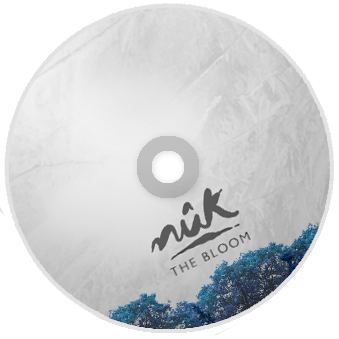
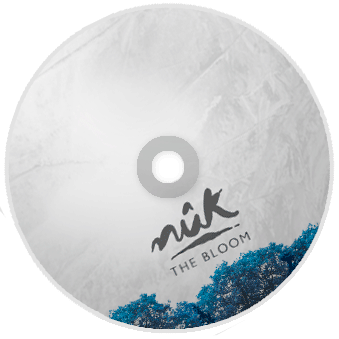
Change pictures to JPG

Changed region(s): [[0.3245, 0.649, 0.944, 0.9735]]

diff --git a/index.html b/index.html
@@ -21,7 +21,7 @@
 		<div class="row">
 			<div class="col-sm-12">
 				<div class="breadcrumb-fullscreen-parent phone-menu-bg">
-					<div class="breadcrumb breadcrumb-fullscreen alignleft small-description overlay almost-black-overlay" style="background-image: url('assets/img/header/header.png');" data-stellar-background-ratio="0.5" data-stellar-vertical-offset="0">
+					<div class="breadcrumb breadcrumb-fullscreen alignleft small-description overlay almost-black-overlay" style="background-image: url('assets/img/header/header.jpg');" data-stellar-background-ratio="0.5" data-stellar-vertical-offset="0">
 						<div id="home" style="position: absolute;left: 0;top: 0;">
 							<div class="intro-header">
 								<div class="js-height-full star" style="height: 955px;">
@@ -231,7 +231,7 @@
 					<li class="col-md-6 col-sm-6 col-xs-12">
 						<div class="album-icon">
 							<span class="thumbs-album">
-								<a href="albumsFullBackground.html"><img width="339" height="339" src="assets/img/albums/albumCover1.png" class="attachment-album-thumbnail wp-post-image" alt="album-cover-1"></a>
+								<a href="albumsFullBackground.html"><img width="339" height="339" src="assets/img/albums/AlbumCover1.jpg" class="attachment-album-thumbnail wp-post-image" alt="album-cover-1"></a>
 							</span>
 							<span class="disk">
 								<img width="339" height="339" src="assets/img/albums/disk1.png" alt="album-disk-1">
@@ -246,7 +246,7 @@
 					<li class="col-md-6 col-sm-6 col-xs-12">
 						<div class="album-icon albumIcon1">
 							<span class="thumbs-album">
-								<a href="albumsFullBackground.html"><img width="339" height="339" src="assets/img/albums/albumCover2.png" class="attachment-album-thumbnail wp-post-image" alt="album-cover-2"></a>
+								<a href="albumsFullBackground.html"><img width="339" height="339" src="assets/img/albums/AlbumCover2.jpg" class="attachment-album-thumbnail wp-post-image" alt="album-cover-2"></a>
 							</span>
 							<span class="disk">
 								<img width="339" height="339" src="assets/img/albums/disk2.png" alt="album-disk-2">
@@ -265,7 +265,7 @@
 	<!-- =============== END ALBUM COVER SECTION ================ -->
 
 	<!-- =============== START EVENTS SECTION-1 ================ -->
-	<section style="background-image: url(assets/img/events/tableEventsHome.png);" class="background-properties hide-section paddingHomeEvents">
+	<section style="background-image: url(assets/img/events/tableeventshome.jpg);" class="background-properties hide-section paddingHomeEvents">
 		<div class="tableEvents">
 			<div class="container">
 				<div class="row">
@@ -327,7 +327,7 @@
 	<!-- =============== END EVENTS SECTION-1 ================ -->
 
 	<!-- =============== START TWITTER SECTION ================ -->
-	<section class="padding hide-section background-properties" style="background-image: url(assets/img/twitter/homeTwitter.png);">
+	<section class="padding hide-section background-properties" style="background-image: url(assets/img/twitter/homeTwitter.jpg);">
 		<div class="twitter">
 			<div class="container">
 				<div class="row">
@@ -388,9 +388,9 @@
 										<figcaption>
 											<!-- Single Album Image -->
 											<div class="hovereffect">
-												<img class="img-responsive" src="assets/img/gallery/Horizontal1.png" alt="">
+												<img class="img-responsive" src="assets/img/gallery/Horizontal1.jpg" alt="">
 												<div class="overlay">
-												   <a class="info lightbox" href="assets/img/gallery/Horizontal1.png"></a>
+												   <a class="info lightbox" href="assets/img/gallery/Horizontal1.jpg"></a>
 												</div>
 											</div>
 										</figcaption>
@@ -405,9 +405,9 @@
 										<!-- Single Album Image -->
 										<figcaption>
 											<div class="hovereffect">
-											<img class="img-responsive" src="assets/img/gallery/Vertical1.png" alt="">
+											<img class="img-responsive" src="assets/img/gallery/Vertical1.jpg" alt="">
 											<div class="overlay">
-											   <a class="info lightbox" href="assets/img/gallery/Vertical1.png"></a>
+											   <a class="info lightbox" href="assets/img/gallery/Vertical1.jpg"></a>
 											</div>
 										</div>
 										</figcaption>
@@ -420,9 +420,9 @@
 										<!-- Single Album Image -->
 										<figcaption>
 											<div class="hovereffect">
-											<img class="img-responsive" src="assets/img/gallery/Vertical2.png" alt="">
+											<img class="img-responsive" src="assets/img/gallery/Vertical2.jpg" alt="">
 											<div class="overlay">
-											   <a class="info lightbox" href="assets/img/gallery/Vertical2.png"></a>
+											   <a class="info lightbox" href="assets/img/gallery/Vertical2.jpg"></a>
 											</div>
 										</div>
 										</figcaption>
@@ -435,9 +435,9 @@
 										<!-- Single Album Image -->
 										<figcaption>
 											<div class="hovereffect">
-											<img class="img-responsive" src="assets/img/gallery/Vertical3.png" alt="">
+											<img class="img-responsive" src="assets/img/gallery/Vertical3.jpg" alt="">
 											<div class="overlay">
-											   <a class="info lightbox" href="assets/img/gallery/Vertical3.png"></a>
+											   <a class="info lightbox" href="assets/img/gallery/Vertical3.jpg"></a>
 											</div>
 										</div>
 										</figcaption>
@@ -450,9 +450,9 @@
 										<!-- Single Album Image -->
 										<figcaption>
 											<div class="hovereffect">
-											<img class="img-responsive" src="assets/img/gallery/Vertical4.png" alt="">
+											<img class="img-responsive" src="assets/img/gallery/Vertical4.jpg" alt="">
 											<div class="overlay">
-											   <a class="info lightbox" href="assets/img/gallery/Vertical4.png"></a>
+											   <a class="info lightbox" href="assets/img/gallery/Vertical4.jpg"></a>
 											</div>
 										</div>
 										</figcaption>
@@ -465,9 +465,9 @@
 										<!-- Single Album Image -->
 										<figcaption>
 											<div class="hovereffect">
-											<img class="img-responsive" src="assets/img/gallery/Horizontal2.png" alt="">
+											<img class="img-responsive" src="assets/img/gallery/Horizontal2.jpg" alt="">
 											<div class="overlay">
-											   <a class="info lightbox" href="assets/img/gallery/Horizontal2.png"></a>
+											   <a class="info lightbox" href="assets/img/gallery/Horizontal2.jpg"></a>
 											</div>
 										</div>
 										</figcaption>
@@ -498,7 +498,7 @@
 						    <li class="col-sm-3">
 								<figure>
 									<figcaption>
-										<img src="assets/img/shop/shopProduct1.png" alt="">
+										<img src="assets/img/shop/shopProduct1.jpg" alt="">
 									</figcaption>
 									<div class="content">
 										<div class="shopHover">
@@ -517,7 +517,7 @@
 							<li class="col-sm-3">
 								<figure>
 									<figcaption>
-										<img src="assets/img/shop/shopProduct2.png" alt="">
+										<img src="assets/img/shop/shopProduct2.jpg" alt="">
 									</figcaption>
 									<div class="content">
 										<div class="shopHover">
@@ -536,7 +536,7 @@
 							<li class="col-sm-3">
 								<figure>
 									<figcaption>
-										<img src="assets/img/shop/shopProduct3.png" alt="">
+										<img src="assets/img/shop/shopProduct3.jpg" alt="">
 									</figcaption>
 									<div class="content">
 										<div class="shopHover">
@@ -555,7 +555,7 @@
 							<li class="col-sm-3">
 								<figure>
 									<figcaption>
-										<img src="assets/img/shop/shopProduct4.png" alt="">
+										<img src="assets/img/shop/shopProduct4.jpg" alt="">
 									</figcaption>
 									<div class="content">
 										<div class="shopHover">

diff --git a/galleryGrid.html b/galleryGrid.html
@@ -280,7 +280,7 @@
 			<div class="col-sm-12">
 				<div class="before-FullscreenSlider"></div>
 				<div class="breadcrumb-fullscreen-parent phone-menu-bg">
-					<div class="breadcrumb breadcrumb-fullscreen alignleft small-description overlay almost-black-overlay" style="background-image: url('assets/img/gallery/gallerybackground.png');" data-stellar-background-ratio="0.5" data-stellar-vertical-offset="0">
+					<div class="breadcrumb breadcrumb-fullscreen alignleft small-description overlay almost-black-overlay" style="background-image: url('assets/img/gallery/gallerybackground.jpg');" data-stellar-background-ratio="0.5" data-stellar-vertical-offset="0">
 						<div class="breadTxt">
                             <h1>
                                 Galería
@@ -313,9 +313,9 @@
 										<!-- Single Album Image -->
 										<figcaption>
 											<div class="hovereffect">
-										        <img class="img-responsive" src="assets/img/gallery/square1.png" alt="">
+										        <img class="img-responsive" src="assets/img/gallery/Square1.jpg" alt="">
 										        <div class="overlay">
-										        	<a class="info lightbox" href="assets/img/gallery/square1.png"></a>
+										        	<a class="info lightbox" href="assets/img/gallery/Square1.jpg"></a>
 										        </div>
 										    </div>
 										</figcaption>
@@ -328,9 +328,9 @@
 										<!-- Single Album Image -->
 										<figcaption>
 											<div class="hovereffect">
-										        <img class="img-responsive" src="assets/img/gallery/square2.png" alt="">
+										        <img class="img-responsive" src="assets/img/gallery/Square2.jpg" alt="">
 										        <div class="overlay">
-										        	<a class="info lightbox" href="assets/img/gallery/square2.png"></a>
+										        	<a class="info lightbox" href="assets/img/gallery/Square2.jpg"></a>
 										        </div>
 										    </div>
 										</figcaption>
@@ -343,9 +343,9 @@
 										<!-- Single Album Image -->
 										<figcaption>
 											<div class="hovereffect">
-										        <img class="img-responsive" src="assets/img/gallery/square3.png" alt="">
+										        <img class="img-responsive" src="assets/img/gallery/Square3.jpg" alt="">
 										        <div class="overlay">
-										        	<a class="info lightbox" href="assets/img/gallery/square3.png"></a>
+										        	<a class="info lightbox" href="assets/img/gallery/Square3.jpg"></a>
 										        </div>
 										    </div>
 										</figcaption>
@@ -358,9 +358,9 @@
 										<!-- Single Album Image -->
 										<figcaption>
 											<div class="hovereffect">
-										        <img class="img-responsive" src="assets/img/gallery/square4.png" alt="">
+										        <img class="img-responsive" src="assets/img/gallery/Square4.jpg" alt="">
 										        <div class="overlay">
-										        	<a class="info lightbox" href="assets/img/gallery/square4.png"></a>
+										        	<a class="info lightbox" href="assets/img/gallery/Square4.jpg"></a>
 										        </div>
 										    </div>
 										</figcaption>
@@ -373,9 +373,9 @@
 										<!-- Single Album Image -->
 										<figcaption>
 											<div class="hovereffect">
-										        <img class="img-responsive" src="assets/img/gallery/square5.png" alt="">
+										        <img class="img-responsive" src="assets/img/gallery/Square5.jpg" alt="">
 										        <div class="overlay">
-										        	<a class="info lightbox" href="assets/img/gallery/square5.png"></a>
+										        	<a class="info lightbox" href="assets/img/gallery/Square5.jpg"></a>
 										        </div>
 										    </div>
 										</figcaption>
@@ -388,9 +388,9 @@
 										<!-- Single Album Image -->
 										<figcaption>
 											<div class="hovereffect">
-										        <img class="img-responsive" src="assets/img/gallery/square6.png" alt="">
+										        <img class="img-responsive" src="assets/img/gallery/Square6.jpg" alt="">
 										        <div class="overlay">
-										        	<a class="info lightbox" href="assets/img/gallery/square6.png"></a>
+										        	<a class="info lightbox" href="assets/img/gallery/Square6.jpg"></a>
 										        </div>
 										    </div>
 										</figcaption>

diff --git a/shop.html b/shop.html
@@ -281,7 +281,7 @@
 			<div class="col-sm-12">
 				<div class="before-FullscreenSlider"></div>
 				<div class="breadcrumb-fullscreen-parent phone-menu-bg">
-					<div class="breadcrumb breadcrumb-fullscreen alignleft small-description overlay almost-black-overlay" style="background-image: url('assets/img/shop/shopbackground.png');" data-stellar-background-ratio="0.5" data-stellar-vertical-offset="0">
+					<div class="breadcrumb breadcrumb-fullscreen alignleft small-description overlay almost-black-overlay" style="background-image: url('assets/img/shop/shopbackground.jpg');" data-stellar-background-ratio="0.5" data-stellar-vertical-offset="0">
 						<div class="breadTxt">
                             <h1>
                                 Tienda Online
@@ -311,7 +311,7 @@
                                     <li class="col-sm-4">
 		                                <figure>
 		                                    <figcaption>
-		                                        <img src="assets/img/shop/bigProduct1.png" alt="">
+		                                        <img src="assets/img/shop/bigProduct1.jpg" alt="">
 		                                    </figcaption>
 		                                    <div class="content">
 		                                        <div class="shopHover">
@@ -330,7 +330,7 @@
                                     <li class="col-sm-4">
 		                                <figure>
 		                                    <figcaption>
-		                                        <img src="assets/img/shop/bigProduct2.png" alt="">
+		                                        <img src="assets/img/shop/bigProduct2.jpg" alt="">
 		                                    </figcaption>
 		                                    <div class="content">
 		                                        <div class="shopHover">
@@ -349,7 +349,7 @@
 		                            <li class="col-sm-4">
 		                                <figure>
 		                                    <figcaption>
-		                                        <img src="assets/img/shop/bigProduct3.png" alt="">
+		                                        <img src="assets/img/shop/bigProduct3.jpg" alt="">
 		                                    </figcaption>
 		                                    <div class="content">
 		                                        <div class="shopHover">
@@ -368,7 +368,7 @@
 		                            <li class="col-sm-4">
 		                                <figure>
 		                                    <figcaption>
-		                                        <img src="assets/img/shop/bigProduct4.png" alt="">
+		                                        <img src="assets/img/shop/bigProduct4.jpg" alt="">
 		                                    </figcaption>
 		                                    <div class="content">
 		                                        <div class="shopHover">
@@ -387,7 +387,7 @@
 		                            <li class="col-sm-4">
 		                                <figure>
 		                                    <figcaption>
-		                                        <img src="assets/img/shop/bigProduct5.png" alt="">
+		                                        <img src="assets/img/shop/bigProduct5.jpg" alt="">
 		                                    </figcaption>
 		                                    <div class="content">
 		                                        <div class="shopHover">
@@ -406,7 +406,7 @@
 		                            <li class="col-sm-4">
 		                                <figure>
 		                                    <figcaption>
-		                                        <img src="assets/img/shop/bigProduct6.png" alt="">
+		                                        <img src="assets/img/shop/bigProduct6.jpg" alt="">
 		                                    </figcaption>
 		                                    <div class="content">
 		                                        <div class="shopHover">

diff --git a/nuk.code-workspace.html b/nuk.code-workspace.html
@@ -422,14 +422,14 @@
 				<div class="breadcrumb-fullscreen-parent sliderContainerBreadcrumb">
 					
 					<div id="ava-slider" class="royalSlider  heroSlider rsMinW change-header-items-color">
-						<div class="rsContent" style="background-image: url(assets/img/header/header.png); background-size:cover">
-							<img class="rsImg" src="assets/img/header/header.png" alt="">
+						<div class="rsContent" style="background-image: url(assets/img/header/header.jpg); background-size:cover">
+							<img class="rsImg" src="assets/img/header/header.jpg" alt="">
 						</div>
-						<div class="rsContent" style="background-image: url(assets/img/header/header.png); background-size:cover">
-							<img class="rsImg" src="assets/img/header/header.png" alt="">
+						<div class="rsContent" style="background-image: url(assets/img/header/header.jpg); background-size:cover">
+							<img class="rsImg" src="assets/img/header/header.jpg" alt="">
 						</div>
-						<div class="rsContent" style="background-image: url(assets/img/header/header.png); background-size:cover">
-							<img class="rsImg" src="assets/img/header/header.png" alt="">
+						<div class="rsContent" style="background-image: url(assets/img/header/header.jpg); background-size:cover">
+							<img class="rsImg" src="assets/img/header/header.jpg" alt="">
 						</div>
 					</div>
 				</div>

diff --git a/contact.html b/contact.html
@@ -280,7 +280,7 @@
 			<div class="col-sm-12">
 				<div class="before-FullscreenSlider"></div>
 				<div class="breadcrumb-fullscreen-parent phone-menu-bg">
-					<div class="breadcrumb breadcrumb-fullscreen alignleft small-description overlay almost-black-overlay" style="background-image: url('assets/img/contact/contactbackground.png');" data-stellar-background-ratio="0.5" data-stellar-vertical-offset="0">
+					<div class="breadcrumb breadcrumb-fullscreen alignleft small-description overlay almost-black-overlay" style="background-image: url('assets/img/contact/contactbackground.jpg');" data-stellar-background-ratio="0.5" data-stellar-vertical-offset="0">
 						<div class="breadTxt">
                             <h1>
                                 Contacto
@@ -300,7 +300,7 @@
 	<!-- =============== END BREADCRUMB ================ -->
 
 	<!-- =============== START CONTACT ================ -->
-	<section class="contactSingle padding background-properties" id="content" style="background-image:url(assets/img/events/backgroundevents.png);">
+	<section class="contactSingle padding background-properties" id="content" style="background-image:url(assets/img/events/backgroundevents.jpg);">
 		<div class="container">
 			<div class="row">
 				<div class="col-sm-4">

diff --git a/albumsFullBackground.html b/albumsFullBackground.html
@@ -100,7 +100,7 @@
 	<!-- =============== END TOP HEADER ================ -->
 
 	<!-- =============== START ALBUMS SECTION ================ -->
-	<section class="fullAlbums" style="background-image:url(assets/img/albums/backgrounddisk1.png);">
+	<section class="fullAlbums" style="background-image:url(assets/img/albums/backgrounddisk1.jpg);">
 		<div class="fullAlbumsContent col-sm-5">
 			<h1>The Bloom</h1>
 			<p>Grabado, producido y masterizado en 2018 por Jordi Gil<br>
@@ -112,7 +112,7 @@
 		</div><!-- end fullAlbumsContent -->
 	</section>
 
-	<section class="fullAlbums" style="background-image:url(assets/img/albums/backgrounddisk2.png);">
+	<section class="fullAlbums" style="background-image:url(assets/img/albums/backgrounddisk2.jpg);">
 		<div class="fullAlbumsContent col-sm-5">
 			<h1>The Surface</h1>
 			<p>Grabado y producido en Legalize Sound en 2014 por Mario García y<br>

diff --git a/video.html b/video.html
@@ -281,7 +281,7 @@
 			<div class="col-sm-12">
 				<div class="before-FullscreenSlider"></div>
 				<div class="breadcrumb-fullscreen-parent phone-menu-bg">
-					<div class="breadcrumb breadcrumb-fullscreen alignleft small-description overlay almost-black-overlay" style="background-image: url('assets/img/videoclips/videoclipsbackground.png');" data-stellar-background-ratio="0.5" data-stellar-vertical-offset="0">
+					<div class="breadcrumb breadcrumb-fullscreen alignleft small-description overlay almost-black-overlay" style="background-image: url('assets/img/videoclips/videoclipsbackground.jpg');" data-stellar-background-ratio="0.5" data-stellar-vertical-offset="0">
 						<div class="breadTxt">
                             <h1>
                                 Videoclips

diff --git a/events.html b/events.html
@@ -134,7 +134,7 @@
 	<!-- =============== END BREADCRUMB ================ -->
 
 	<!-- =============== START EVENTS SECTION-1 ================ -->
-	<section style="background-image: url(assets/img/events/backgroundevents.png);" class="background-properties padding">
+	<section style="background-image: url(assets/img/events/backgroundevents.jpg);" class="background-properties padding">
 		<div class="tableEvents">
 			<div class="container">
 				<div class="row">
